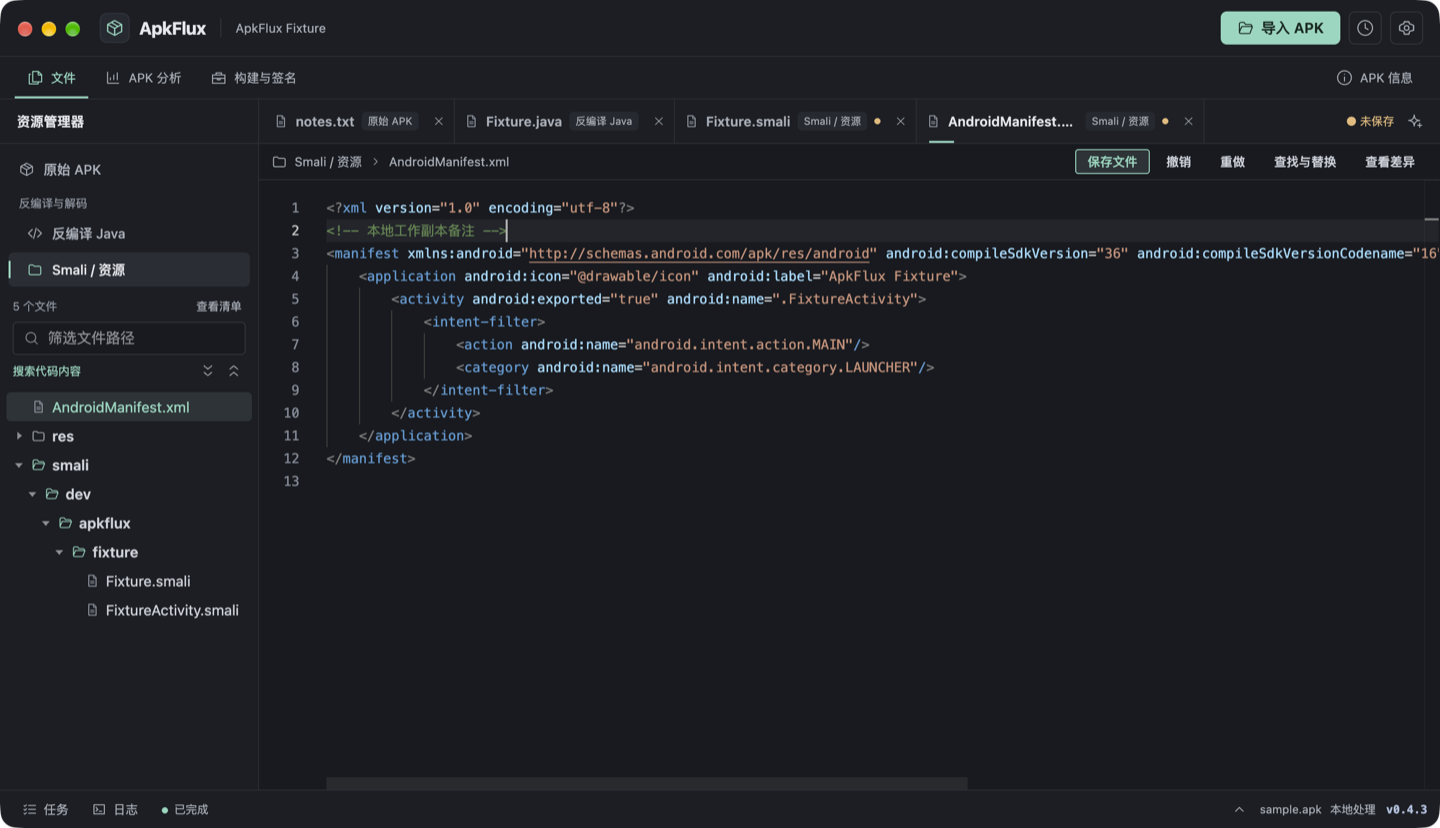
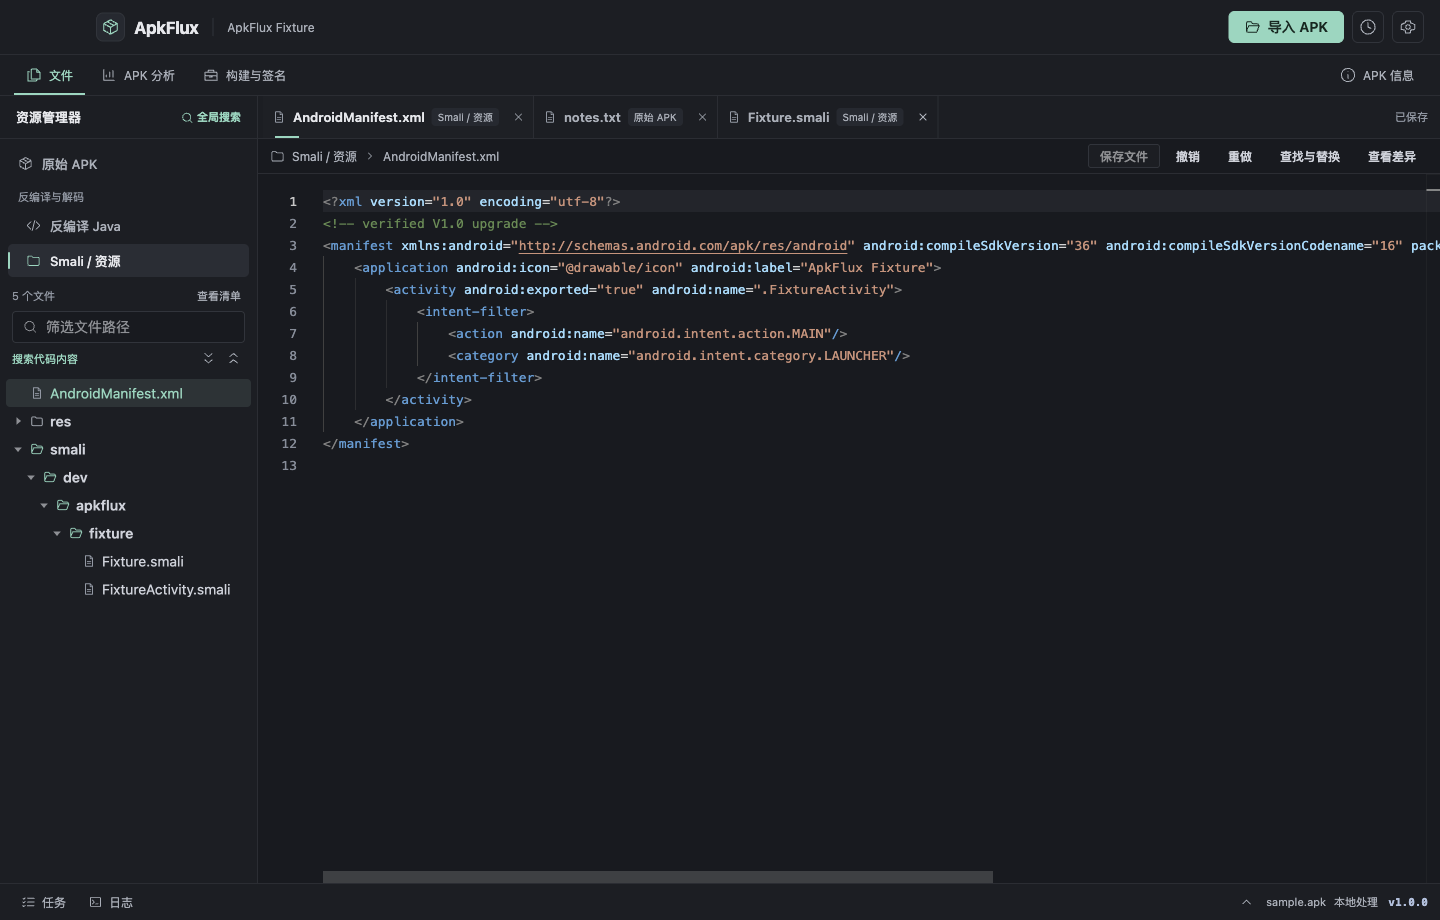
Release ApkFlux 1.0.0 for Apple Silicon

diff --git a/src/renderer/PreferencesPanel.vue b/src/renderer/PreferencesPanel.vue
@@ -10,7 +10,7 @@ const status = ref<UpdateState>()
 const busy = ref(false)
 const error = ref('')
 const messages: Record<UpdateState['status'], [string, string]> = {
-  unconfigured: ['此构建未配置更新源。', 'This build has no update feed.'],
+  unconfigured: ['在 GitHub 查看并手动安装新版本。', 'View and install new versions manually from GitHub.'],
   idle: ['等待检查。', 'Ready to check.'],
   checking: ['正在检查更新…', 'Checking for updates…'],
   available: ['有新版本。', 'An update is available.'],
@@ -32,6 +32,11 @@ async function install() {
   const result = await window.apkflux.applyUpdate()
   if (!result.ok) error.value = result.error
 }
+async function openReleases() {
+  error.value = ''
+  const result = await api.openReleases()
+  if (!result.ok) error.value = result.error
+}
 const api = window.apkflux
 onMounted(() => run(api.updateState))
 </script>
@@ -50,7 +55,8 @@ onMounted(() => run(api.updateState))
     <h3>{{ t('应用更新', 'App updates') }}</h3>
     <p v-if="status">{{ t(...messages[status.status]) }} {{ status.version }}</p>
     <div v-if="error" class="error-banner" role="alert">{{ error }}</div>
-    <ElButton :disabled="busy || status?.status === 'unconfigured'" @click="run(api.checkUpdate)">{{ t('检查更新', 'Check for updates') }}</ElButton>
+    <ElButton v-if="status?.status === 'unconfigured'" @click="openReleases">{{ t('查看 GitHub 发布', 'View GitHub Releases') }}</ElButton>
+    <ElButton v-else :disabled="busy" @click="run(api.checkUpdate)">{{ t('检查更新', 'Check for updates') }}</ElButton>
     <ElButton v-if="status?.status === 'available'" :disabled="busy" @click="run(api.downloadUpdate)">{{ t('下载更新', 'Download update') }}</ElButton>
     <ElButton v-if="status?.status === 'ready'" :disabled="busy" @click="install">{{ t('安装更新并重启', 'Install and restart') }}</ElButton>
     <slot />

diff --git a/src/renderer/App.vue b/src/renderer/App.vue
@@ -1,6 +1,7 @@
 <script setup lang="ts">
 import { computed, defineAsyncComponent, nextTick, onBeforeUnmount, onMounted, ref, watch } from 'vue'
 import { ElButton, ElInput, ElTreeV2 } from 'element-plus'
+import { version } from '../../package.json'
 import type { FileSource, SourceSearch } from '../shared/api'
 import { isNativeLibrary } from '../shared/native-library'
 import Glyph from './UiGlyph.vue'
@@ -641,7 +642,7 @@ onBeforeUnmount(() => { observer.disconnect(); unlisten?.() })
           :aria-label="logOpen ? t('收起面板', 'Collapse panel') : t('展开面板', 'Expand panel')" :aria-expanded="logOpen" aria-controls="workbench-output"
           @click="logOpen = !logOpen"><Glyph name="down" :size="15" /></button>
         <span v-if="store.workspace" class="status-apk" :title="store.workspace.name">{{ store.workspace.name }}</span>
-        <span class="status-right">{{ t('本地处理', 'Local processing') }} <b>v0.5.2</b></span>
+        <span class="status-right">{{ t('本地处理', 'Local processing') }} <b>v{{ version }}</b></span>
       </footer>
     </section>
     <div v-if="dragDepth > 0" class="drag-overlay"><span><Glyph name="upload" :size="30" /> 松开以导入 APK</span></div>

diff --git a/src/shared/api.ts b/src/shared/api.ts
@@ -103,6 +103,7 @@ export interface DesktopApi {
   analyzeNative(id: string, path: string): Promise<Reply<NativeLibrary>>
   nativeCode(id: string, path: string, address: string): Promise<Reply<NativeCode>>
   updateState(): Promise<Reply<UpdateState>>
+  openReleases(): Promise<Reply<void>>
   checkUpdate(): Promise<Reply<UpdateState>>
   downloadUpdate(): Promise<Reply<UpdateState>>
   applyUpdate(): Promise<Reply<void>>
@@ -127,7 +128,8 @@ export const channels = {
   buildHistory: 'build:history', devices: 'adb:devices', installBuild: 'adb:install',
   analyze: 'analysis:run', exportAnalysis: 'analysis:export',
   analyzeNative: 'native:analyze', nativeCode: 'native:code',
-  updateState: 'update:state', checkUpdate: 'update:check', downloadUpdate: 'update:download', applyUpdate: 'update:apply',
+  updateState: 'update:state', openReleases: 'update:open-releases',
+  checkUpdate: 'update:check', downloadUpdate: 'update:download', applyUpdate: 'update:apply',
   manageDevice: 'adb:manage',
   copyHash: 'workspace:copy-hash', cancel: 'task:cancel', task: 'task:event', openRequest: 'ui:open-request',
 } as const

diff --git a/site/index.html b/site/index.html
@@ -20,9 +20,10 @@
         <p class="platform">Apple Silicon macOS</p>
         <h1>Android APK<br>本地工作台</h1>
         <p class="summary">查看包信息、浏览反编译结果、编辑工作副本，并构建已签名的 APK。</p>
-        <a class="download" href="https://github.com/wzebbin/ApkFlux/releases">查看下载版本</a>
+        <a class="download" href="https://github.com/wzebbin/ApkFlux/releases/latest">免费下载 DMG</a>
+        <p class="install-note">使用临时签名，首次打开可能出现 macOS 验证提示。</p>
       </div>
-      <figure class="preview"><img src="assets/workbench.png" width="1440" height="828" alt="ApkFlux 编辑器打开清单、Java 和 Smali 的界面"></figure>
+      <figure class="preview"><img src="assets/workbench.png" width="1440" height="920" alt="ApkFlux 1.0.0 编辑器同时打开清单、原始资源和 Smali"></figure>
     </section>
     <section id="features" class="features">
       <h2>在一个工作区完成 APK 检查与编辑</h2>

diff --git a/src/main/index.ts b/src/main/index.ts
@@ -1,4 +1,4 @@
-import { app, BrowserWindow, clipboard, dialog, ipcMain, Menu, type IpcMainInvokeEvent, type MenuItemConstructorOptions } from 'electron'
+import { app, BrowserWindow, clipboard, dialog, ipcMain, Menu, shell, type IpcMainInvokeEvent, type MenuItemConstructorOptions } from 'electron'
 import { mkdir, writeFile } from 'node:fs/promises'
 import { basename, join } from 'node:path'
 import { pathToFileURL } from 'node:url'
@@ -224,6 +224,7 @@ function registerIpc(workspaces: Workspaces, tools: Tools, decoder: Decoder, bui
     return result.filePath
   })
   handle(channels.updateState, () => updates.current())
+  handle(channels.openReleases, () => shell.openExternal('https://github.com/wzebbin/ApkFlux/releases/latest'))
   handle(channels.checkUpdate, () => updates.check())
   handle(channels.downloadUpdate, () => updates.download())
   handle(channels.applyUpdate, () => {

diff --git a/site/style.css b/site/style.css
@@ -24,6 +24,7 @@ h1 { font-size: clamp(39px, 5vw, 72px); line-height: 1.12; letter-spacing: -.045
 .summary { max-width: 32em; margin: 23px 0; color: var(--muted); line-height: 1.75; }
 .download { display: inline-flex; align-items: center; min-height: 46px; padding: 0 19px; border-radius: 6px; background: var(--accent); color: #12241e; font-weight: 700; }
 .download:hover { background: #b5eedc; }
+.install-note { margin: 12px 0 0; color: var(--muted); font-size: 13px; line-height: 1.6; }
 .preview { margin: 0; border: 1px solid var(--border); border-radius: 12px; overflow: hidden; box-shadow: 0 16px 45px #090d1466; }
 .preview img { width: 100%; height: auto; display: block; }
 .features { border-top: 1px solid var(--border); padding-block: 36px 48px; }

diff --git a/src/preload/index.ts b/src/preload/index.ts
@@ -33,6 +33,7 @@ const api: DesktopApi = {
   analyzeNative: (id, path) => ipcRenderer.invoke(channels.analyzeNative, id, path),
   nativeCode: (id, path, address) => ipcRenderer.invoke(channels.nativeCode, id, path, address),
   updateState: () => ipcRenderer.invoke(channels.updateState),
+  openReleases: () => ipcRenderer.invoke(channels.openReleases),
   checkUpdate: () => ipcRenderer.invoke(channels.checkUpdate),
   downloadUpdate: () => ipcRenderer.invoke(channels.downloadUpdate),
   applyUpdate: () => ipcRenderer.invoke(channels.applyUpdate),

diff --git a/docs/build.md b/docs/build.md
@@ -30,11 +30,11 @@ npm run build
 npm run test:stress
 ```
 
-设置 `APKFLUX_TEST_ELECTRON` 可使用 Apple Silicon 打包版复验。
+设置 `APKFLUX_TEST_ELECTRON` 可使用 Apple Silicon 打包版复验。若工具未被自动探测，可通过 `APKFLUX_TEST_JADX` 和 `APKFLUX_TEST_APKTOOL` 指定路径。
 
 反编译验收需要 JADX 1.5.6、Apktool 3.0.3 和 JDK。生成测试 APK 后运行 `npm run test:decode`。测试使用已探测的工具，或通过 `APKFLUX_TEST_JADX` 和 `APKFLUX_TEST_APKTOOL` 指定本地路径。针对其他 APK，可设置 `APKFLUX_TEST_APK`、`APKFLUX_TEST_JAVA_PATH`、`APKFLUX_TEST_SMALI_PATH`、`APKFLUX_TEST_CLASS` 和 `APKFLUX_TEST_PACKAGE` 验收指定的输出。测试用临时数据目录验证界面预览、内容搜索、导出和缓存恢复。
 
-[electron-builder](https://www.electron.build/docs/cli/) 当前生成 Apple Silicon macOS 的 DMG 和 ZIP：
+[electron-builder](https://www.electron.build/docs/cli/) 当前生成 Apple Silicon macOS 的 DMG：
 
 ```sh
 npm run package:dir
@@ -45,19 +45,10 @@ npm run dist:mac
 
 常规打包使用外部工具。本地离线验收包通过 electron-builder 的 `extraResources` 将工具 JAR 放进 `tools/<platform>-<arch>/`。JDK 和 Android SDK 保持由本机配置。可参考[外部工具](tools.md)。
 
-更新检查、下载和安装使用 [electron-updater](https://www.electron.build/docs/features/auto-update/)。正式分发时，通过 electron-builder 的 `publish` 设置注入更新源，签名并生成安装包与更新元数据。将元数据和产物发布到配置的服务后，才能从旧签名版本验收更新。无更新源的本地验收包会在设置页显示状态。本地 macOS 包使用临时开发签名。请在正式发布前复核 [Electron 支持周期](https://releases.electronjs.org/schedule)。
-
-
 `npm run test:native` 验证真实 SO 的反汇编和伪代码。用 `APKFLUX_TEST_GHIDRA` 指定已编译原生组件的本地安装，`APKFLUX_TEST_APK` 指定 APK，`APKFLUX_TEST_SO` 和 `APKFLUX_TEST_FUNCTION` 可指定 AArch64 条目和函数地址。
-
-## V1.0 发布验收
-
-0.5.2 是 Apple Silicon macOS 本地验收版本。用干净账户安装，逐项检查导入、工具探测、双语与主题、反编译、搜索、编辑、构建签名和卸载。Ghidra 单独记录可用的 Java、引擎版本和目标主机。记录原始 APK 哈希、工具版本及安装包哈希，使用自有夹具复验大 APK 和取消后的清理。
-
-比较内置 JADX、Apktool 加外部 JDK 的当前打包方式，与独立带 JRE 的安装体积、许可证和首次启动体验。发布前记录所需的 JDK、Android SDK 和 Ghidra 安装方式。正式包需要 macOS 分发签名、公证和可访问的更新源。完成一次已签名旧版本的检查、下载、重启安装，并复核工作区缓存、已保存副本和工具配置在升级后可读。
 
 ## GitHub 发布
 
 官网使用 GitHub Pages。仓库的 Pages 发布源设为 GitHub Actions 后，`main` 上的官网变更由 `pages.yml` 部署至 [ApkFlux 官网](https://wzebbin.github.io/ApkFlux/)。
 
-在 GitHub 的 `macos-release` 环境里设置 `CSC_LINK`、`CSC_KEY_PASSWORD`、`APPLE_API_KEY_BASE64`、`APPLE_API_KEY_ID` 和 `APPLE_API_ISSUER`。证书为带私钥的 Developer ID Application PKCS#12，公证密钥为 App Store Connect API 私钥。推送与项目版本一致的 `vX.Y.Z` 标签后，工作流在 arm64 runner 上生成签名、公证的 DMG 和 ZIP，并附上 `latest-mac.yml` 更新元数据。复核 GitHub Release 草稿和产物后再发布。
+推送与项目版本一致的 `vX.Y.Z` 标签后，发布工作流在 macOS arm64 runner 上执行检查和构建。工作流验证 DMG、应用临时签名、版本与架构，然后附上 `SHA256SUMS.txt` 发布至 GitHub Releases。发布说明来自 `docs/github-release.md`，版本变更时同步更新说明。Apple Silicon 免费分发使用临时签名，无 Apple 公证。用户从「设置 → 应用更新」进入 GitHub Releases 手动安装新版本。

diff --git a/README.md b/README.md
@@ -1,10 +1,14 @@
 # ApkFlux
 
-ApkFlux 是本地运行的 Android APK 工作台。当前验收版本 `0.5.2` 面向 Apple Silicon macOS，支持导入、反编译、工作副本编辑、重建签名和本地版本对比。
+ApkFlux 是本地运行的 Android APK 工作台。当前版本 `1.0.0` 面向 Apple Silicon macOS，支持导入、反编译、工作副本编辑、重建签名和本地版本对比。
 
 [项目官网](https://wzebbin.github.io/ApkFlux/) · [GitHub Releases](https://github.com/wzebbin/ApkFlux/releases)
 
-## 启动
+## 安装
+
+从 [GitHub Releases](https://github.com/wzebbin/ApkFlux/releases/latest) 下载 Apple Silicon DMG 和 SHA-256 校验文件。打开 DMG，将 ApkFlux 拖到「应用程序」。发布版使用临时签名，首次打开时 macOS 可能提示开发者无法验证。请参阅 [Apple 的说明](https://support.apple.com/zh-cn/102445)。后续版本可在「设置 → 应用更新」打开 GitHub 发布页，下载 DMG 手动替换。
+
+## 从源码启动
 
 准备 Node.js 22.12+（推荐 Node.js 24 LTS）和 npm：
 
@@ -21,7 +25,7 @@ npm run dev
 
 导入后，在「文件」页左侧切换「原始 APK」「反编译 Java」和「Smali / 资源」。首次打开反编译视图时，可在该视图中启动对应的工具。打开文件时，编辑器标签会显示文件来源。导入后即可在 APK 文件树点击 `AndroidManifest.xml`，或点击「查看清单」打开只读预览。完成 Smali / 资源解码后，同一入口可打开可编辑的工作副本。Java 和原始 APK 条目以只读方式打开。解码后的 Smali、清单和文本资源可在 Monaco 中编辑。反编译视图支持按路径筛选或搜索文件内容，Java 结果可导出到所选目录。反编译使用后台任务，底部显示日志，也可取消。结果按 APK 的 SHA-256 缓存，重开历史工作区即可继续查看。
 
-常规源码构建使用本机的 JADX 和 Apktool，可通过「外部工具」选择。本地打包版包含两个工具的 JAR，运行仍需要 JDK。详见[外部工具](docs/tools.md)。
+常规源码构建使用本机的 JADX 和 Apktool，可通过「外部工具」选择。GitHub 发布包使用外部工具，运行 JADX 和 Apktool 需要本机 JDK。详见[外部工具](docs/tools.md)。
 
 资源管理器右上角的「全局搜索」同时查询原始 APK 和已生成视图的路径，以及 Java、Smali 和解码资源中的文本。尚未生成的视图会在搜索结果中单独提示。点击命中项会打开对应来源的标签并定位到文件树或匹配行。
 
@@ -49,4 +53,4 @@ npm run test:stress
 
 `npm run fixture` 需要 Android SDK Platform、Build Tools 和 JDK，并在 `test-output/` 生成可复现验收流程所需的真实签名 APK（每次都会重新生成测试证书）。桌面测试需要图形会话。参阅[构建与验收](docs/build.md)。
 
-当前提供本地验收包。正式平台签名、发布服务与更新验收状态见[开发进度](docs/progress.md)。[架构](docs/architecture.md) · [开发计划](docs/development-plan.md) · [进度](docs/progress.md) · [变更记录](docs/changelog.md)
+[架构](docs/architecture.md) · [开发计划](docs/development-plan.md) · [进度](docs/progress.md) · [变更记录](docs/changelog.md)

diff --git a/docs/github-release.md b/docs/github-release.md
@@ -1,0 +1,11 @@
+ApkFlux 的 Apple Silicon macOS 免费发布版。导入 APK 后可浏览原始文件、反编译结果、编辑工作副本并重建验签。APK 和工作区数据保存在本机。
+
+### 下载与安装
+
+1. 下载下方 Apple Silicon DMG 和 `SHA256SUMS.txt`。可在下载目录运行 `shasum -a 256 -c SHA256SUMS.txt` 验证镜像。
+2. 打开 DMG，将 ApkFlux 拖到「应用程序」。本版使用临时签名（ad-hoc），未经 Apple 公证，首次启动可能出现开发者无法验证的提示。请按 [Apple 的说明](https://support.apple.com/zh-cn/102445) 判断能否安全打开。
+3. 反编译、验签、重建和 SO 分析所需的 JDK、JADX、Apktool、Android SDK 及 Ghidra 按需安装。安装后可在「设置 → 外部工具」配置。[外部工具配置](https://github.com/wzebbin/ApkFlux/blob/main/docs/tools.md)
+
+后续版本从「设置 → 应用更新 → 查看 GitHub 发布」获取。退出应用后替换「应用程序」里的 ApkFlux，工作区数据保存在独立的应用数据目录。
+
+[ApkFlux 官网](https://wzebbin.github.io/ApkFlux/)

diff --git a/docs/changelog.md b/docs/changelog.md
@@ -1,5 +1,10 @@
 # 变更记录
 
+## 1.0.0 · Apple Silicon
+
+- 通过 GitHub Releases 提供免费 DMG 和 SHA-256 文件，使用临时签名。
+- 应用设置和官网提供 GitHub 发布入口，支持手动更新。
+
 ## 0.5.2 · Apple Silicon 收尾验收
 
 - 启动时清理超过 30 天未使用的可重建结果，保留已保存编辑及其解码基础。
